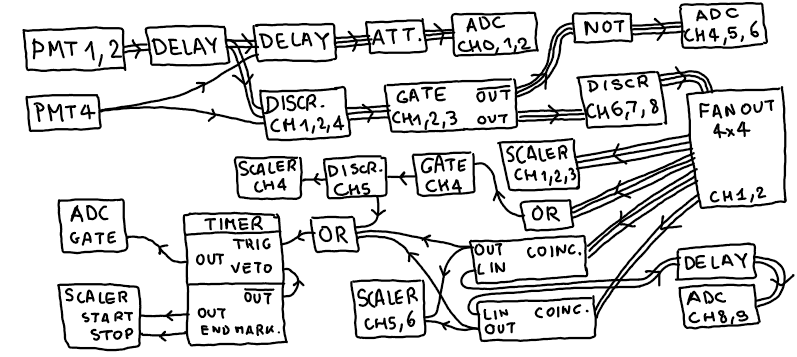
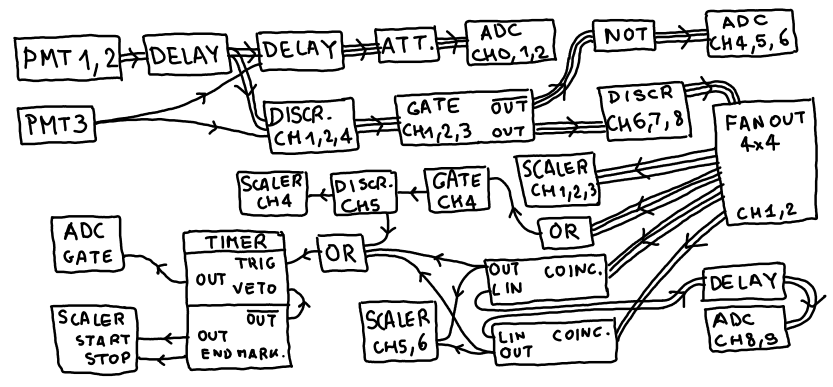
figura circuito e note a margine

diff --git a/esp-4-positroni/relazione/apparato_a.tex b/esp-4-positroni/relazione/apparato_a.tex
@@ -1,19 +1,27 @@
+\begin{figure}
+	\hspace{-0.25\textwidth}
+	\includegraphics[width=0.9\textwidth]{immagini/circuitone}~
+	\includegraphics[width=0.6\textwidth]{immagini/circuitob}
+	\caption{Circuito dell'apparato A (sinistra) e dell'apparato B (destra).}
+	\label{circuitone}
+\end{figure}
+
 \subsection{Apparato A}
 
 % Doveva farlo Bob.
+
+\marginpar{Più che chiamarli apparato A e B,
+poiché sono cambiati solo alcuni dettagli nel circuito,
+li chiamerei circuito A e B.}
 
 \subsubsection{Descrizione del circuito}
 
 Il circuito del primo apparato costruito è rappresentato in \autoref{circuitone}.
 
-\begin{figure}[h]
-\centering
-\includegraphics[width=30 em]{immagini/circuitone}
-\caption{Schema circuitale dell'apparato A.}
-\label{circuitone}
-\end{figure}
-
 Le uscite dei PMT sono inviate ai discriminatori, le cui uscite attraversano un modulo di antiretrigger (tempo morto di \SI{1}{\micro s}) e vengono usate per costruire funzioni logiche. I segnali dei PMT vengono anche inviati all'ADC attraverso un attenuatore per evitare di danneggiare lo strumento.
+\marginpar{Gli attenuatori non sono per non danneggiare l'ADC
+perché il manuale dice che regge impulsi da \SI{50}V per \SI1{\micro s};
+servono per regolare il fondo scala.}
 Per quanto riguarda la parte logica, costruiamo e mettiamo in tempo tre tipi di trigger:
 \begin{enumerate}
 \item canale
@@ -30,10 +38,19 @@ Per dare precedenza agli eventi più rari abbiamo collegato questi trigger ad un
 \subsubsection{Problemi riscontrati}
 
 I problemi descritti in seguito ci hanno spinti a semplificare il circuito per cercare di risolverli.
+\marginpar{Però non abbiamo semplificato il circuito per risolvere il bit stuck,
+magari togliere del tutto la frase che tanto viene ripetuta all'inizio dell'apparato B.}
 
-Il più evidente fin da subito è stato il \emph{bit stuck}: il terzo bit dei dati in formato binario è sempre 1. Gli istogrammi presentano delle lacune di \SI{4}{digit} ogni \SI{4}{digit}. Risolviamo questo problema istogrammando con canali più larghi di \SI{8}{digit}.
+Il più evidente fin da subito è stato il \emph{bit stuck}: il terzo bit dei dati in formato binario è sempre 1.
+\marginpar{Specificare che è il terzo meno significativo,
+si indica con LSB (least significant bit).}
+Gli istogrammi presentano delle lacune di \SI{4}{digit} ogni \SI{4}{digit}. Risolviamo questo problema istogrammando con canali più larghi di \SI{8}{digit}.
+\marginpar{La condizione non è che siano più larghi di 8 digit,
+ma che i mattoncini di base dei bin siano i bin $[0,8)$, $[8,16)$, \dots}
 
 Poi abbiamo escluso l'\emph{or} dal circuito perché i segnali che ci arrivavano dalle coincidenze mostravano avere un'energia minore. Abbiamo risolto il problema togliendo l'\emph{or} dal circuito.
+\marginpar{Spiegare perché: che la temporizzazione è diversa,
+che il modulo gate ha jitter eccessivo per tempi $>\SI{1}{ms}$.}
 
 Il problema più interessante è dato dal fatto che, confrontando gli spettri del \na{}, abbiamo visto che i fotoni emessi dalla sorgente con attività maggiore avevano energia maggiore.
 Il grafico in \autoref{distanze} mostra l'energia dei fotopicchi del sodio in funzione del rate misurato ponendo la sorgente ad attività elevata a varie distanze dal rivelatore.
@@ -66,7 +83,15 @@ rate [1/s] & beta [digit] & neon [digit] \\
 \label{tabella forte}
 \end{table}
 
-Pensiamo che tale effetto sia dovuto ad un pile-up nella digitalizzazione in quanto l'ADC ha un tempo di conversione di \SI{60}{\micro s}. Dal grafico si evince che anche con un rate di eventi minore di \SI{10}{kHz} il problema persiste. La spiegazione è data dal fatto che la distribuzione temporale tra un evento e l'altro è esponenziale, quindi tra due eventi consecutivi intercorre spesso un piccolo intervallo di tempo. 
+Pensiamo che tale effetto sia dovuto ad un pile-up nella digitalizzazione in quanto l'ADC ha un tempo di conversione di \SI{60}{\micro s}.
+\marginpar{Dalle misure fatte l'ultimo giorno sappiamo che
+il problema non può essere solo il pile-up della digitalizzazione.
+Inoltre avevamo anche escluso che il problema fosse solo il pile-up dei segnali.}
+Dal grafico si evince che anche con un rate di eventi minore di \SI{10}{kHz} il problema persiste. La spiegazione è data dal fatto che la distribuzione temporale tra un evento e l'altro è esponenziale, quindi tra due eventi consecutivi intercorre spesso un piccolo intervallo di tempo.
+\marginpar{Usare \si{s^{-1}} per il rate.}
 Abbiamo quindi deciso di utilizzare la sorgente ad attività minore per misurare la massa dell'elettrone e quella ad attività maggiore per le misure in cui non ci interessa l'energia degli eventi o cerchiamo eventi rari.
 
-\marginpar{Qualcuno che conosce la distribuzione esponenziale è pregato di controllare la correttezza di questa frase.}
+\marginpar{Qualcuno che conosce la distribuzione esponenziale è pregato di controllare la correttezza di questa frase.\\
+\emph{La frase è corretta però è scritta come se avessi già detto
+che all'inizio pensavi che gli eventi fossero equispaziati.
+Se il lettore non la pensa così ha difficoltà a capire.}}

diff --git a/esp-4-positroni/relazione/rimbalzi.tex b/esp-4-positroni/relazione/rimbalzi.tex
@@ -15,12 +15,23 @@ nella configurazione in cui 2 rivelatori sono posti uno di fronte all'altro alla
 Si vedono degli eccessi in alcuni punti del grafico che chiameremo in seguito \emph{strutture}. La più vistosa si manifesta quando entrambi i fotoni di annichilazione effettuano un processo fotoelettrico all'interno degli scintillatori. In basso a sinistra si nota invece la zona in cui entrambi hanno subito una diffusione Compton. Le bande arancioni intorno a questa zona rappresentano invece gli eventi in cui un fotone proveniente dall'annichilazione ha fatto fotoelettrico su un rivelatore e l'altro ha fatto Compton sull'altro.
 La stessa cosa avviene con il fotone proveniente dal decadimento del neon, rappresentato dalle strutture nella parte centrale del grafico adiacente ai bordi della figura. La struttura più a destra (o più in alto) rappresenta l'arrivo simultaneo di un fotone di annichilazione insieme ad uno del neon. L'interpretazione degli eventi è analoga a quelli descritti precedentemente.
 Le strutture non attese sono i due eccessi presenti nella zona in cui il fotone del neon e quello dell'annichilazione fanno entrambi scattering Compton. Queste strutture si manifestano a valori di energia coincidenti ai picchetti della spalla Compton.
-\marginpar{``Picchetti della spalla Compton'', come aggiustarli?}
+\marginpar{``Picchetti della spalla Compton'', come aggiustarli?\\
+\emph{La spalla Compton è la parte a destra,
+il rialzo a sinistra viene chiamato backscattering in letteratura.
+La frase che hai detto vuol dire semplicemente che se marginalizzi lo spettro 2D
+i picchi rimangono visibili in quello 1D.}}
 
 Per verificare la nostra ipotesi abbiamo messo i rivelatori nella configurazione di \autoref{spostati} sinistra, in modo da poterci aggiungere un mattone piombo come in \autoref{spostati} destra.
 L'istogramma 2D corrispondente si trova in \autoref{spostato} sinistra: la struttura più popolata non è più data dalla rivelazione simultanea dell'annichilazione per effetto fotoelettrico, ma dalla somma degli eventi nelle bande che si incrociano.
+\marginpar{Non è più la struttura più popolata.
+Mi sa che non lo era neanche prima, era più \emph{densamente} popolata.
+Identificarla con la configurazione dei fotoni.}
 In questa configurazione non si nota più uno degli eccessi inattesi nominati prima: quello ad energia minore.
 Adesso sono diventate evidenti due strutture circolari nella zona in basso a sinistra del grafico: esse e l'ultimo tipo di struttura rimasta scompaiono completamente quando effettuiamo la misura nella configurazione mostrata in \autoref{spostati} destra, come mostrato in \autoref{spostato} centro.
+\marginpar{Nella caption di \autoref{spostato}:
+le fasce in cui uno legge uno zero non si vedono più perché avevo zoomato il grafico.
+Inoltre la spiegazione che sono il caso in cui uno legge uno zero non i pare esaustiva
+perché, innanzitutto, non arrivano a 0.}
 
 Alla luce di quanto osservato e analizzando i grafici, si trova che le strutture sopra descritte si presentano a coppie e la somma delle loro energie vale rispettivamente $m_e$, $2m_e$ ed $E_{\gamma}=\SI{1274}{keV}$.
 Tali valori sono giustificati dal fatto che, in alcuni casi, un fotone rimbalza sul primo scintillatore su cui è arrivato e viene assorbito dall'altro. Se questo ha già assorbito l'altro fotone (possibile solo nell'annichilazione) la somma delle energie è proprio il doppio dell'energia del fotone singolo.

diff --git a/esp-4-positroni/relazione/apparato_b.tex b/esp-4-positroni/relazione/apparato_b.tex
@@ -4,8 +4,7 @@ Dopo aver eseguito in maniera preliminare le misure richieste, abbiamo deciso di
 
 \subsubsection{Descrizione del circuito}
 
-Il nuovo circuito segue lo schema in \autoref{disegno}.
-\marginpar{Jack deve disegnare l'apparato B}
+Il nuovo circuito segue lo schema in \autoref{circuitone}.
 I segnali dei PMT vengono inviati ai discriminatori per ottenere i segnali logici e agli attenuatori per essere poi inviati all'ADC. I segnali logici attraversano un modulo di antiretrigger per poi essere usati come trigger di acquisizioni singole o per effettuare coincidenze. Una copia dei segnali finisce al contatore. Abbiamo usato il timer per far partire/fermare le acquisizioni come abbiamo fatto per l'apparato precedente.
 
 \subsubsection{Problemi riscontrati}
@@ -45,5 +44,12 @@ A destra: grafico della stessa misura in cui il PMT1 è vicino alla sorgente men
 
 \end{figure}
 
-Siamo arrivati alla conclusione che si tratti di un crosstalk dal fatto che il picco in anticoincidenza coincide con quello delle acquisizioni singole. Inoltre abbiamo visto, aumentando la distanza di un PMT dalla sorgente, che il picco delle coincidenze si rimpicciolisce (perché ha meno eventi) e il picco in anticoincidenza tende ad assomigliare sempre di più a quello dell'acquisizione con canale singolo (Figura\autoref{dist}).
+Siamo arrivati alla conclusione che si tratti di un crosstalk dal fatto che il picco in anticoincidenza coincide con quello delle acquisizioni singole.
+\marginpar{Le acquisizioni singole sono anche quelle in cui vedi il doppio picco,
+quindi bisogna dire che coincide con quello se scolleghi l'altro PMT dal circuito.}
+Inoltre abbiamo visto, aumentando la distanza di un PMT dalla sorgente, che il picco delle coincidenze si rimpicciolisce (perché ha meno eventi) e il picco in anticoincidenza tende ad assomigliare sempre di più a quello dell'acquisizione con canale singolo (Figura\autoref{dist}).
+\marginpar{Una volta che hai separato lo spettro in coincidenza e anticoincidenza,
+mi sembra inutile far vedere che le coincidenze calano se allontani i rivelatori;
+sarebbe stato utile se non avessi potuto separare lo spettro.
+Metterei insieme il grafico di figura 4 e il primo di figura 5 che sono il confronto interessante.}
 In seguito abbiamo provato che questo problema si riscontra anche quando i canali da analizzare non sono collegati ad ingressi adiacenti dell'ADC. Inspiegabilmente, il problema si è ripresentato solo a giorni alterni. 

diff --git a/esp-4-positroni/relazione/stabilita.tex b/esp-4-positroni/relazione/stabilita.tex
@@ -3,7 +3,8 @@
 Mostriamo l'instabilità del nostro sistema di rivelatori nei 2 apparati sopra descritti monitorando la posizione dei fotopicchi del sodio in funzione del tempo.
 La prima misura è stata fatta con l'apparato A il 3 maggio e dura \SI{16}{ore}, la seconda  è stata eseguita con l'apparato B il 15 maggio e dura \SI{63}{ore}.
 Nella prima misura sono presenti tutti i canali, nella seconda è presente solo il canale 1 per evitare il cross-talk riscontrato nella precedente.
-Abbiamo usato l'energia nominale dei 2 picchi per ricavare una ``retta di calibrazione'' di pendenza $m$ e intercetta $q$ e abbiamo osservato l'evoluzione temporale di questi parametri. Usiamo l'espressione tra virgolette perché lo scopo dell'esperienza è fingere di non conoscere la massa dell'elettrone per poi misurarla.
+Abbiamo usato l'energia nominale dei 2 picchi per ricavare una ``retta di calibrazione''
+di pendenza $m$ e intercetta $q$ e abbiamo osservato l'evoluzione temporale di questi parametri. Usiamo l'espressione tra virgolette perché lo scopo dell'esperienza è fingere di non conoscere la massa dell'elettrone per poi misurarla.
 
 % misura 1
 \begin{figure}[h]
@@ -39,6 +40,7 @@ A destra: grafici che rappresentano il valore della pendenza e dell'intercetta d
 
 % discussione dei dati
 Guardando i dati della prima misura (\autoref{picchi1} e \autoref{rette1}) vediamo che i vari rivelatori si scalibrano in modo diverso. L'andamento dei punti indica la notte come momento di massima stabilità e l'apertura del laboratorio come momento di massima instabilità.
+\marginpar{Nelle figure usare PMT al posto di ch.}
 
 Dai dati della seconda misura (\autoref{picchi2} sinistra e \autoref{picchi2} destra) si nota uno spostamento coerente dei fotopicchi del sodio che si stabilizza durante la notte. Anche qui si nota una scalibrazione significativa durante gli orari di apertura del laboratorio.
 Le stesse considerazioni valgono anche per i parametri della retta di calibrazione.

diff --git a/esp-4-positroni/relazione/fallimento.tex b/esp-4-positroni/relazione/fallimento.tex
@@ -12,7 +12,10 @@ Prima di eseguire la misura calibriamo il TDC con il generatore di funzioni usan
 Eseguiamo questa calibrazione per i due fondiscala disponibili: \SI{102}{ns} e \SI{510}{ns}.
 Le calibrazioni hanno mostrato una buona linearità, ma la misura dei ritardi ha mostrato che il TDC, per un motivo a noi ignoto, non funziona.
 \marginpar{In realtà a suo arbitrio può decidere di non funzionare anche quando lo testiamo con il generatore di segnali.}
-Il grafico di \autoref{confronto} sinistra è uguale a quello di \autoref{confronto} destra nonostante le acquisizioni siano state fatte con due fondiscala diversi. Se nei due grafici ci fosse la stessa cosa, vedremmo la figura allargata di un fattore dato dal rapporto dei due fondiscala. Inoltre l'offset delle scale del TDC vale circa \SI{1}{digit}, quindi lo spostamento di circa \SI{50}{digit} del picco presente nei grafici non può essere spiegato da nessun effetto fisico.
+Il grafico di \autoref{confronto} sinistra è uguale a quello di \autoref{confronto} destra
+\marginpar{Dire <<la distribuzione della differenza dei tempi acquisita con due fondiscala diversi (vedi Figura...)>>,
+così il testo è comprensibile anche senza prima andarsi a guardare la figura.}
+nonostante le acquisizioni siano state fatte con due fondiscala diversi. Se nei due grafici ci fosse la stessa cosa, vedremmo la figura allargata di un fattore dato dal rapporto dei due fondiscala. Inoltre l'offset delle scale del TDC vale circa \SI{1}{digit}, quindi lo spostamento di circa \SI{50}{digit} del picco presente nei grafici non può essere spiegato da nessun effetto fisico.
 
 \begin{figure}[h]
 \centering

diff --git a/esp-4-positroni/relazione/gate.tex b/esp-4-positroni/relazione/gate.tex
@@ -1,7 +1,9 @@
 \subsection{Gate dell'ADC}
 
 Variamo la durata del gate dell'ADC e calcoliamo il rapporto $\sigma\!/$\!media per il picco di annichilazione rivelato dal PMT1, modellato come al solito con una gaussiana.
+\marginpar{Aggiungere una locuzione o frase introduttiva.}
 Su alcune misure abbiamo introdotto dei ritardi per migliorare o peggiorare la sincronizzazione con il gate al fine di quantificare quanto la messa in tempo influisca sulla nostra risoluzione. Il risultato di questa misura è in \autoref{fig:gate}, i dati sono in \autoref{tab:gate}.
+\marginpar{Dove sono finiti i ritardi nella tabella?}
 
 \begin{figure}[h]
 \centering
@@ -34,3 +36,5 @@ durata (ritardo) [ns] & media [digit] & $\sigma$ [digit] & $\sigma\!/$\!media\\
 Dall'analisi dei dati abbiamo potuto vedere che, fatta eccezione per le misure a \SI{300}{ns} e \SI{400}{ns}, la risoluzione dell'ADC è compatibilmente la stessa.
 Abbiamo allora deciso di porre la durata del gate a \SI{550}{ns} perché era il valore usato prima di questa misura.
 Questa scelta è poi diventata \SI{1}{\micro s} nell'apparato B per evitare problemi derivanti dal jitter dei segnali. Infine notiamo che cambiare i ritardi sui segnali in ingresso non influisce significativamente sulla risoluzione dell'apparato.
+\marginpar{Ma li abbiamo cambiati di pochissimo rispetto ai tempi in gioco,
+quindi non vale dire che non influiscono significativamente.}

diff --git a/esp-4-positroni/relazione/lavoro.tex b/esp-4-positroni/relazione/lavoro.tex
@@ -5,3 +5,6 @@ Allora scegliamo delle tensioni che seguano le caratteristiche dichiarate dal te
 Allora mettiamo il PMT1 a \SI{703}V, il PMT2 a \SI{839}V ed il PMT3 a \SI{930}V.
 
 Mettiamo le soglie dei discriminatori al minimo (circa \SI{-50}{mV}) e usiamo degli attenuatori per cambiare la scala delle misure in caso di necessità.
+\marginpar{Dire che non abbiamo rumore casuale,
+perché sarebbe il principale motivo per scegliere meglio soglie
+e alimentazioni.}

diff --git a/esp-4-positroni/relazione/massa.tex b/esp-4-positroni/relazione/massa.tex
@@ -6,7 +6,8 @@ Poiché la scala di energia varia significativamente nell'arco di tempo in cui f
 misuriamo contemporaneamente lo spettro di tutte le sorgenti.
 Triggeriamo su un singolo PMT,
 collegando solo quel PMT all'ADC, per evitare il crosstalk tra i canali dell'ADC.
-Ripetiamo la misura con i 3 scintillatori disponibili.
+Ripetiamo la misura con i 3 rivelatori disponibili.
+Questa misura è stata fatta con l'apparato B.
 
 \subsubsection{Fit dei picchi}
 
